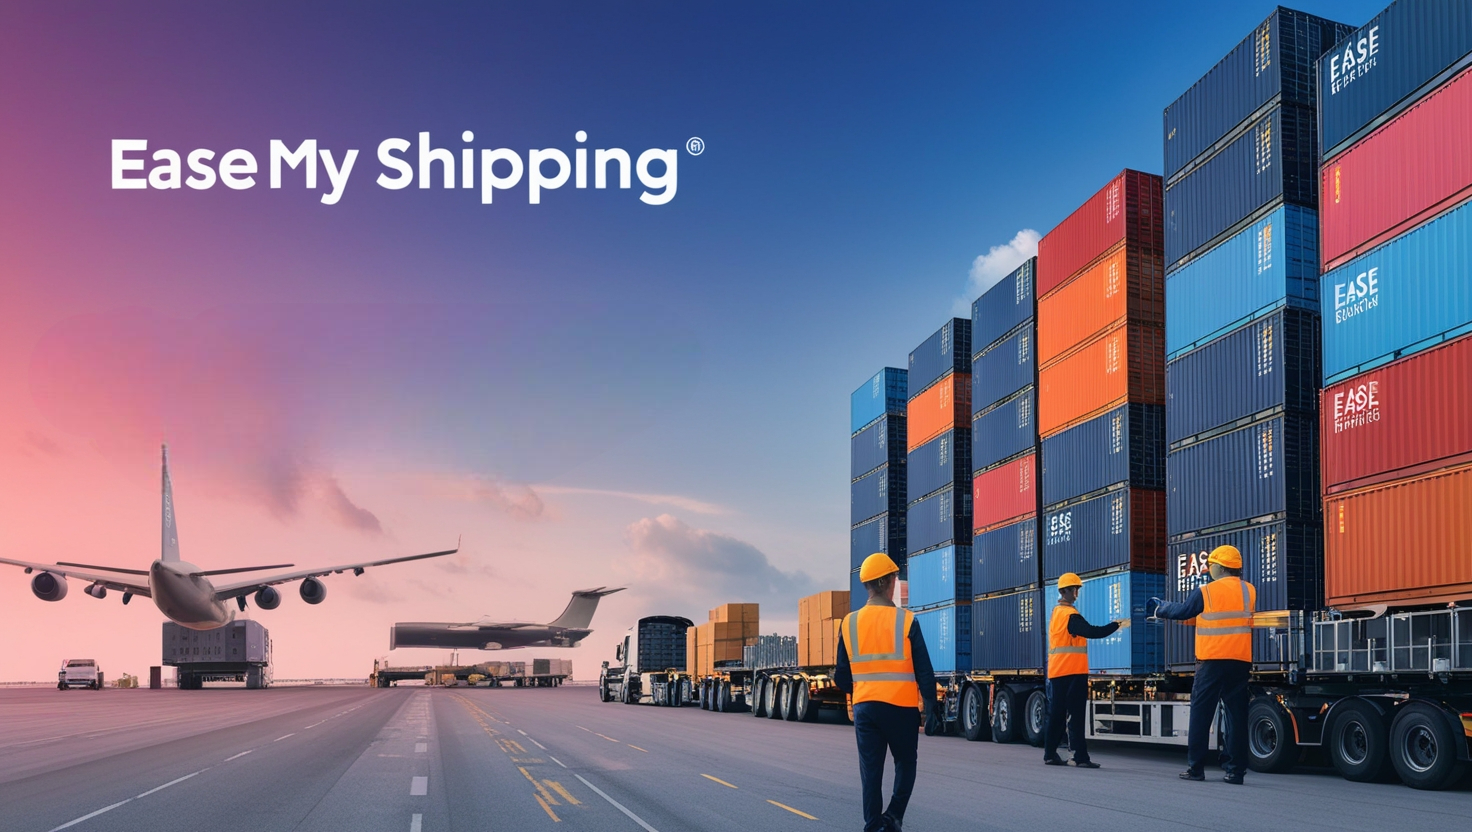
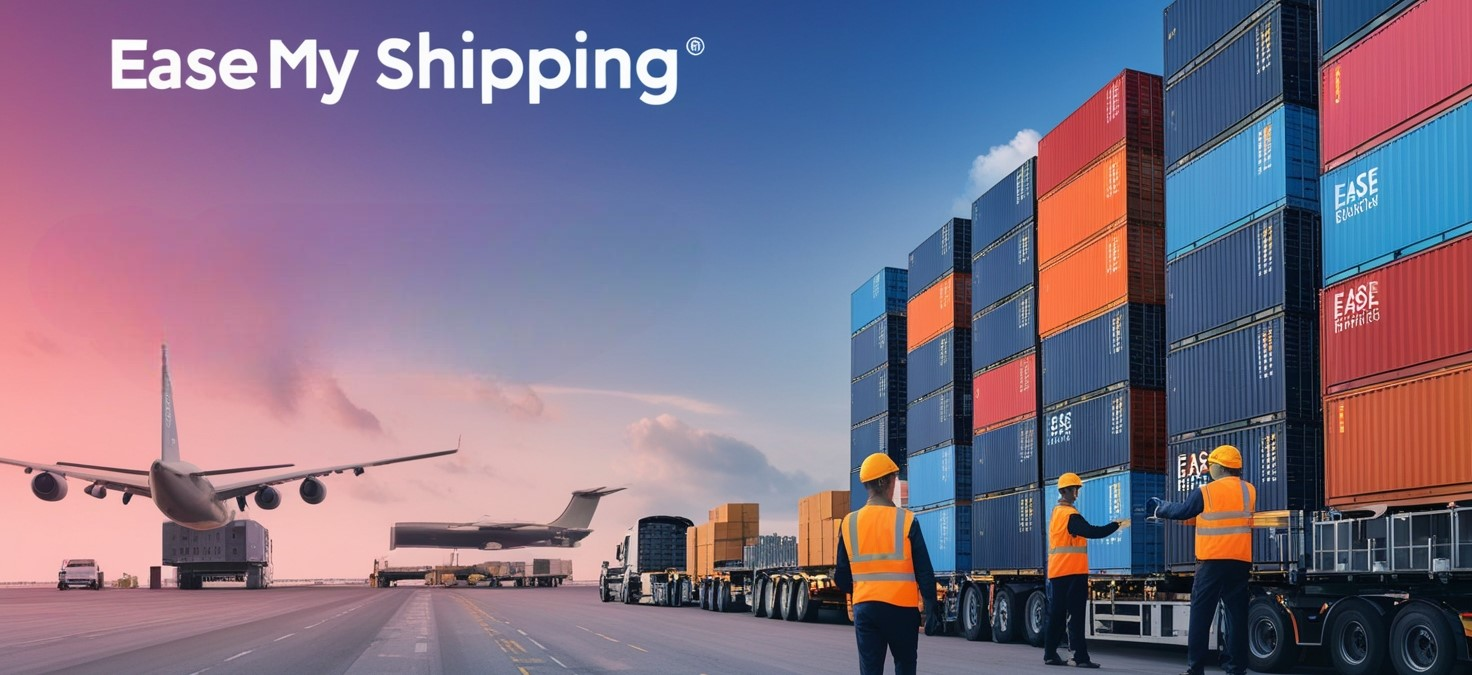
change so ratio of image

diff --git a/src/components/truck_landing_page/Truck.css b/src/components/truck_landing_page/Truck.css
@@ -6,10 +6,12 @@
 }
 
 .img-responsive {
-  /* margin-top: 50px; */
+  margin-top: 73px;
   width: 100%;
-  height: 100vh;
-  display: block;
+  height: auto;
+  /* display: block;
+  object-fit: cover; */
+  max-width: 100%;
 }
 
 .search-bar-container {

diff --git a/src/components/Navbar/Navbar.css b/src/components/Navbar/Navbar.css
@@ -11,8 +11,8 @@
   font-size: 2rem;
 }
 .navbar-logo {
-  width: 62px; /* Adjust the width as needed */
-  height: 32px;
+  width: 80px; /* Adjust the width as needed */
+  height: 45px;
 }
 .navbar{
   top:0px;
